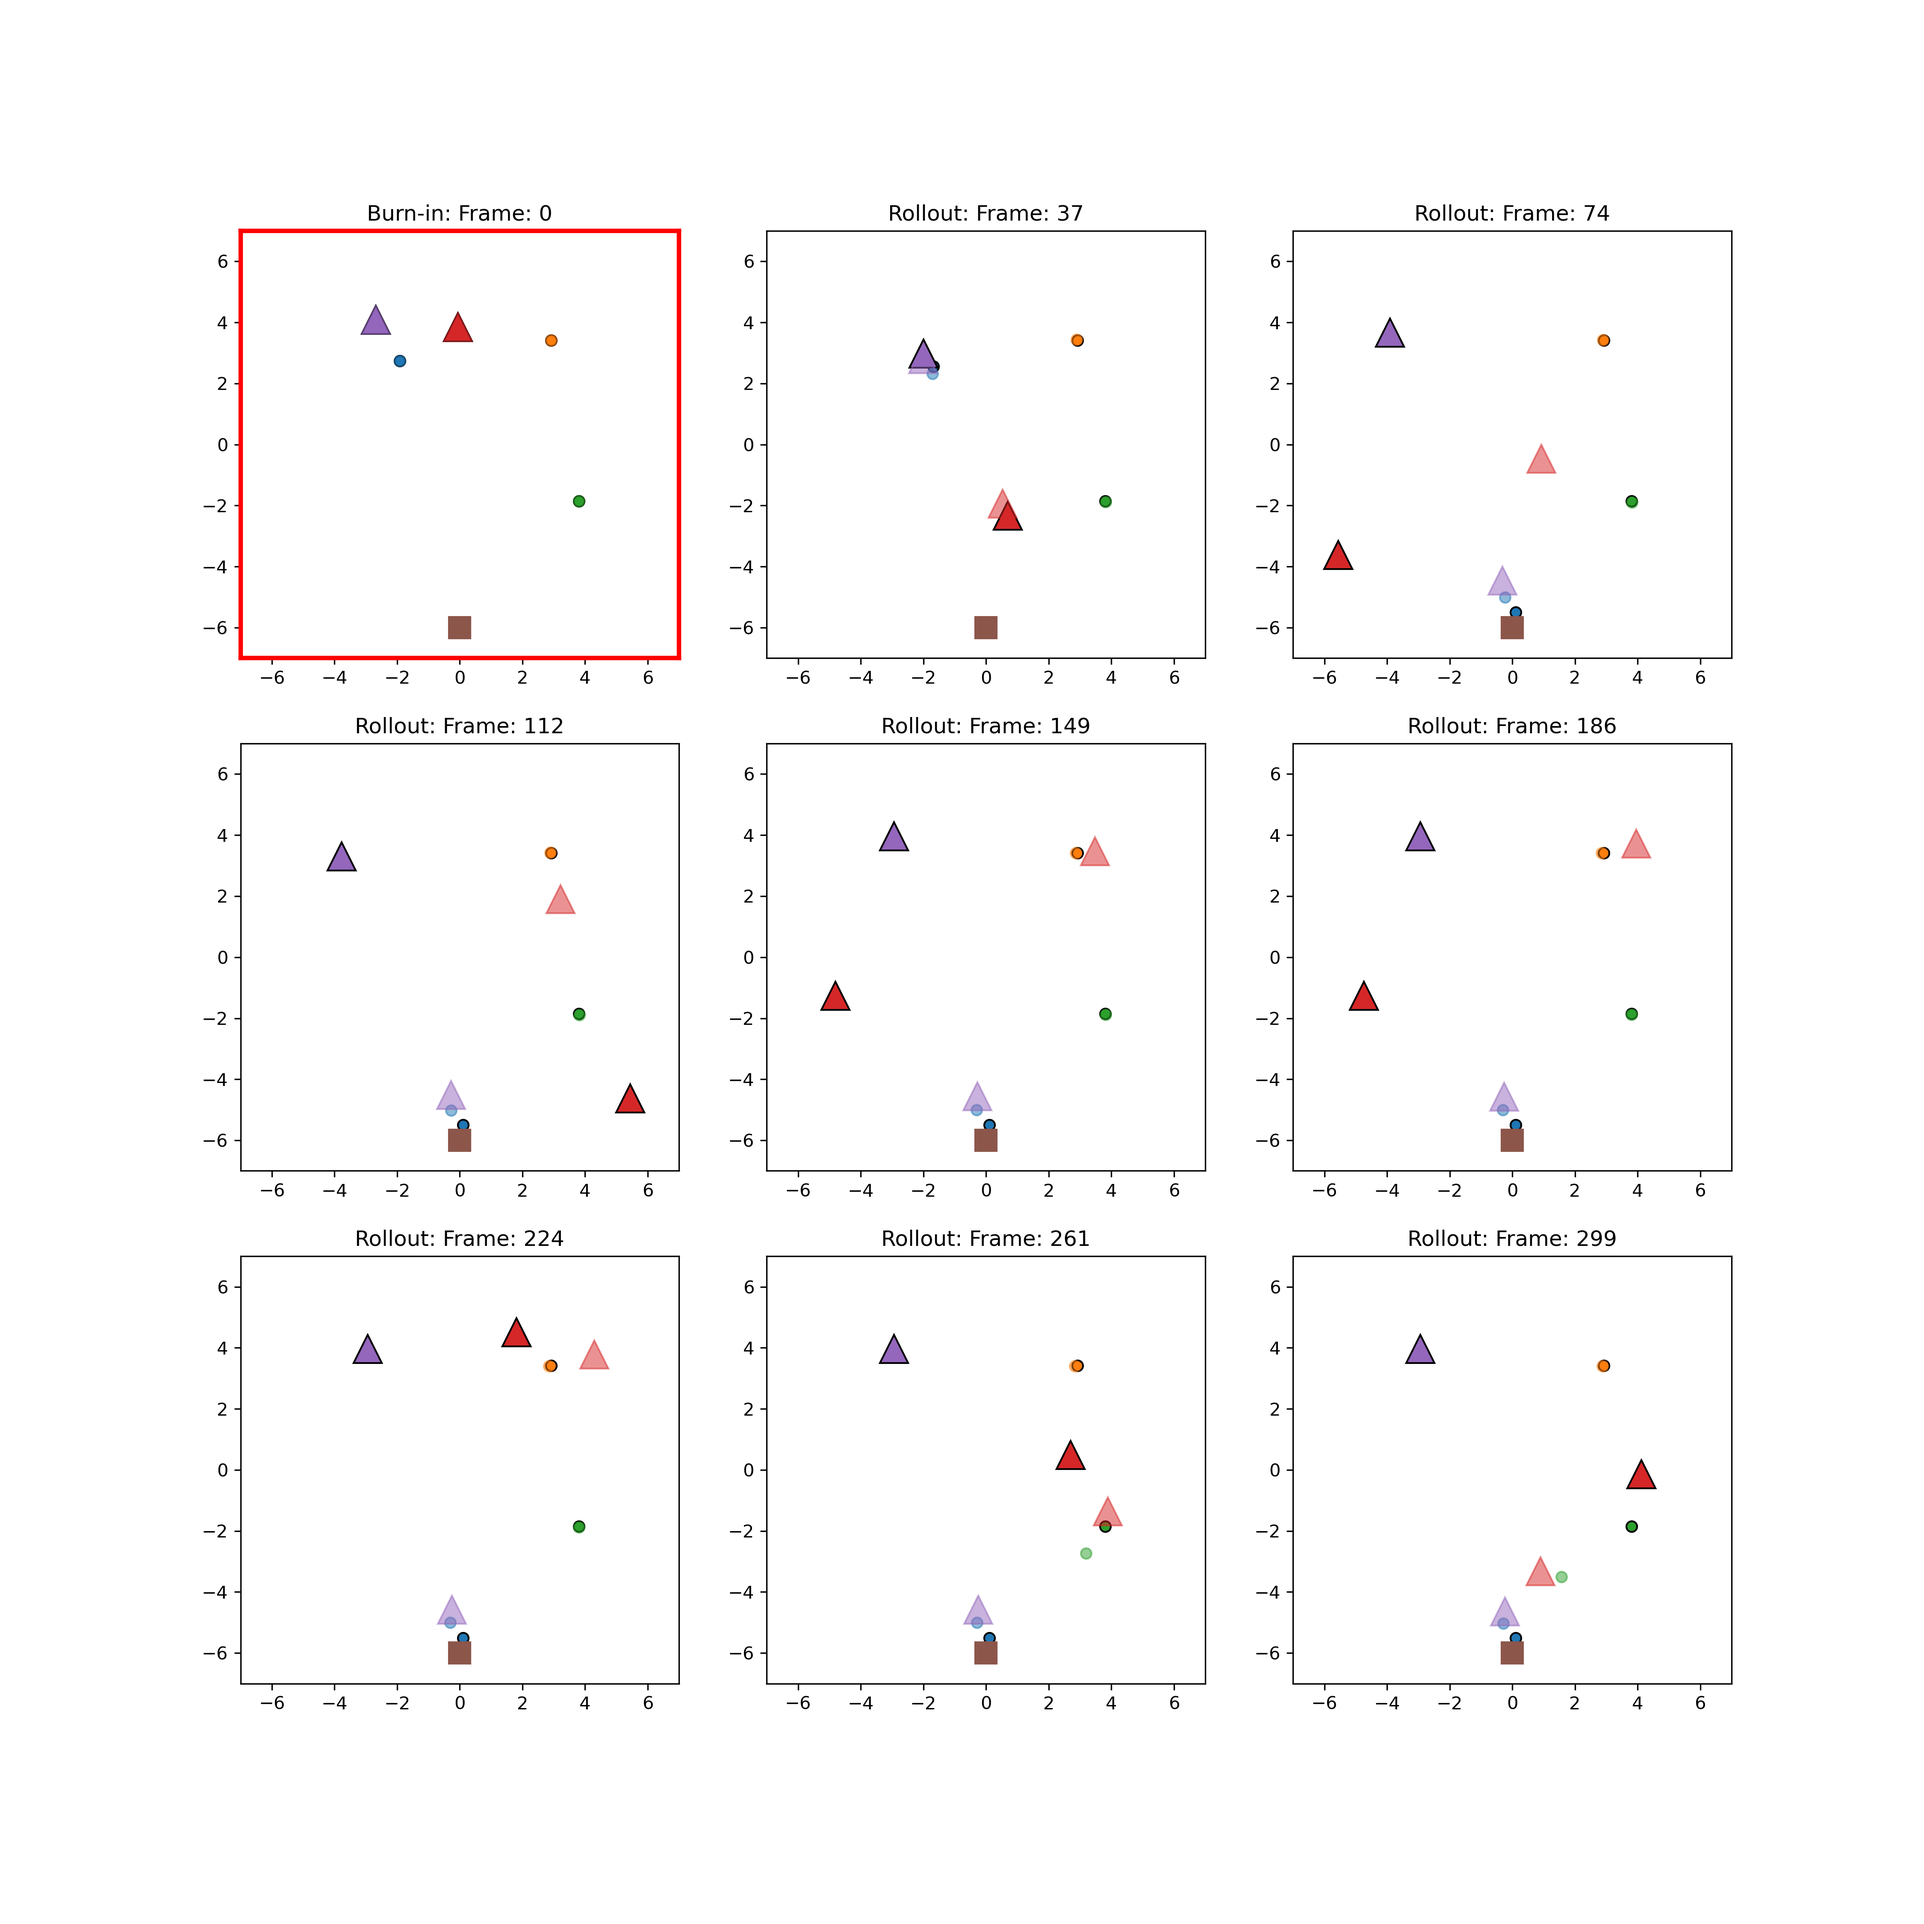
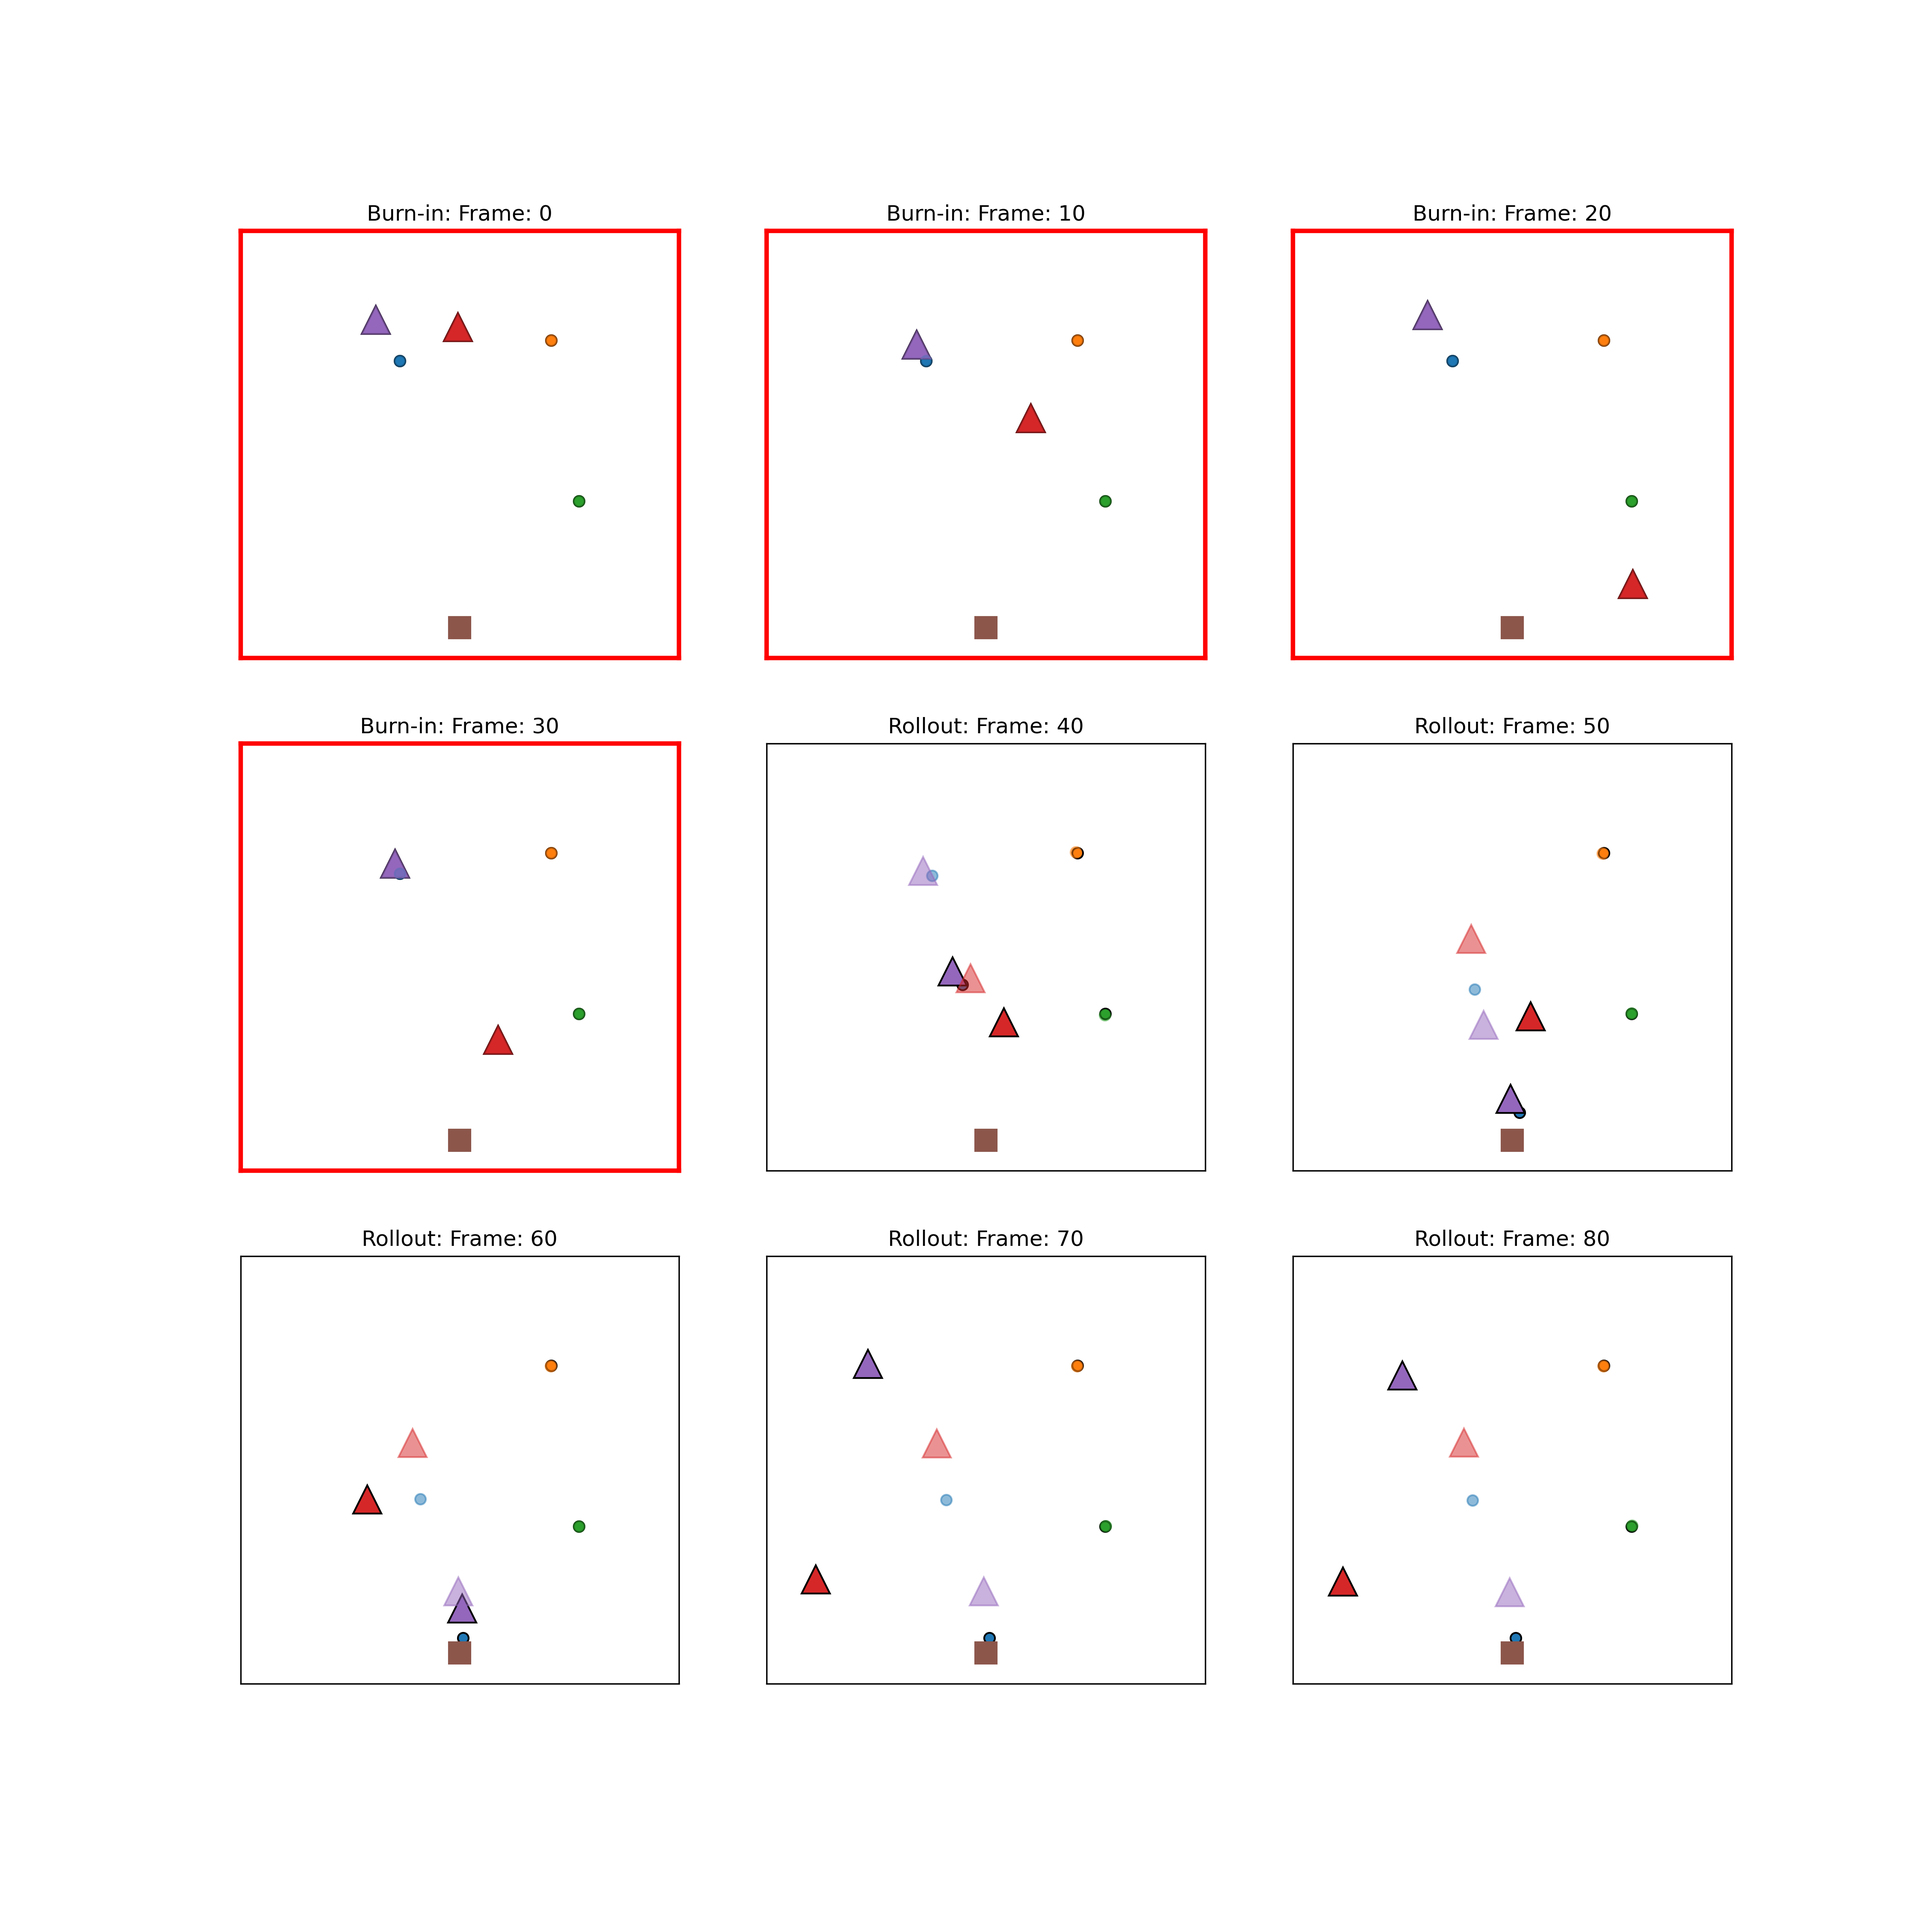
New keys

diff --git a/constants.py b/constants.py
@@ -78,6 +78,24 @@ MODEL_DICT_VAL=  {
     'trans_wm_replay_early': {
        'class': TransformerWorldModel, 'config': 'transformer_wm_ds2.json', 
        'model_dir': 'transformer_wm_replay_early', 'model_label': 'Transformer WM Replay Early'},
+    'rssm_disc_ds2': {
+        'class': DreamerV2, 'config': 'rssm_disc_ds2.json', 
+        'model_dir': 'rssm_ds2', 'model_label': 'RSSM Discrete DS2'},
+    'rssm_disc_ds3': {
+        'class': DreamerV2, 'config': 'rssm_disc_ds2.json', 
+        'model_dir': 'rssm_disc_ds3', 'model_label': 'RSSM Discrete DS3'},
+    'rssm_cont_ds3': {
+        'class': DreamerV2, 'config': 'rssm_cont_ds2.json', 
+        'model_dir': 'rssm_cont_replay_early', 'model_label': 'RSSM Continuous Replay Early'},
+    'transformer_iris': {
+        'class': TransformerIrisWorldModel, 'config': 'transformer_iris_concat_pos_embd_default_config.json',
+        'model_dir': 'transformer_iris_concat_pos_embd_lr1e-4', 'model_label': 'Transformer Iris Concat Pos Embd lr1e-4'},
+    'mp_ds3': {
+        'class': MultistepPredictor, 'config': 'multistep_predictor_input_size_35.json',
+        'model_dir': 'mp_ds3', 'model_label': 'Multistep Predictor DS3'},
+    'md_ds3': {
+        'class': MultistepDelta, 'config': 'multistep_delta_ds2.json',
+        'model_dir': 'multistep_delta_ds3', 'model_label': 'Multistep Delta DS3'},
 }
 
 DEFAULT_VALUES = {
@@ -94,7 +112,8 @@ DEFAULT_VALUES = {
     'epochs': int(3e4),
     'save_every': 200,
     # eval parameters
-    'model_keys': [ 'trans_wm_replay_early', 'mp_replay_early', 'transformer_iris_concat_pos_embd_lr1e-4', 'mp_4096_ds3', 'md_4096_ds3',],
+    'model_keys': ['rssm_disc_ds2', 'rssm_disc_ds3', 'rssm_cont_ds3', 'mp_ds3', 'md_ds3', 'transformer_iris'],
+    #'model_keys': [ 'trans_wm_replay_early', 'mp_replay_early', 'transformer_iris_concat_pos_embd_lr1e-4', 'mp_4096_ds3', 'md_4096_ds3',],
     #'model_keys': list(MODEL_DICT_VAL.keys()),
     'eval_types': ['goal_events', 'multigoal_events', 'move_events', 'pickup_events'],
     'move_threshold': 4.0,

diff --git a/visualize_model_rollouts.py b/visualize_model_rollouts.py
@@ -51,7 +51,7 @@ def load_args():
     parser.add_argument('--burn_in_length', type=int, default=50, help='Burn in length when trial type == all')
     # which visualizations
     parser.add_argument('--plot_traj_subplots', type=bool, default=True, help='Make subplot of true vs predicted trajectory')
-    parser.add_argument('--make_video', type=bool, default=True, help='Make video - compare real and reconstructed traj side by side')
+    parser.add_argument('--make_video', type=int, default=1, help='Make video - compare real and reconstructed traj side by side')
     return parser.parse_args()
 
 def load_config(file):
@@ -104,7 +104,11 @@ def make_traj_subplots(x_true, x_pred, subplot_dims, steps, save_file, data_colu
             x_ind = data_columns.index('agent'+str(agent_num)+'_x')
             z_ind = data_columns.index('agent'+str(agent_num)+'_z')
             ax[row, col].plot(x_pred[step,x_ind], x_pred[step,z_ind], marker='^', markersize=16, markerfacecolor=color, markeredgecolor=color, alpha=0.5)
-    
+            
+        # remove x and y tick labels
+        ax[row, col].set_xticks([])
+        ax[row, col].set_yticks([])
+
         if step <= burn_in_length:
             for spine in ax[row, col].spines.values():
                 spine.set_edgecolor('red')
@@ -263,6 +267,7 @@ if __name__ == '__main__':
         num_frames = x_true.shape[0]
         num_steps = subplot_dims[0] * subplot_dims[1]
         steps = np.linspace(0, num_frames-1, num_steps, endpoint=True).astype(int)
+        steps = np.linspace(0, 56, num_steps, endpoint=True).astype(int)
         fig, ax = make_traj_subplots(x_true, x_pred, subplot_dims, steps, save_file, data_columns, burn_in_length)
     
     # make video - compare real and reconstructed traj side by side
